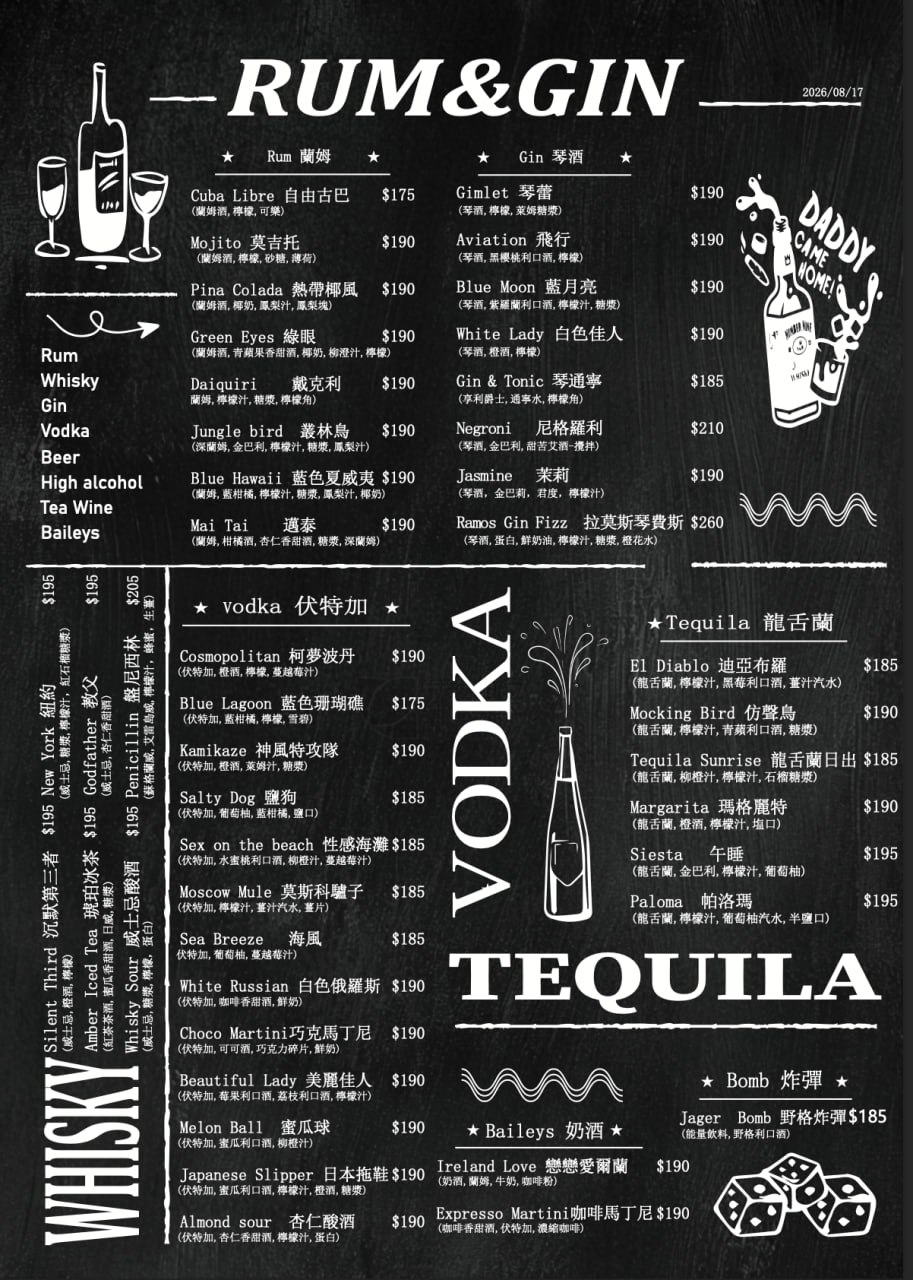
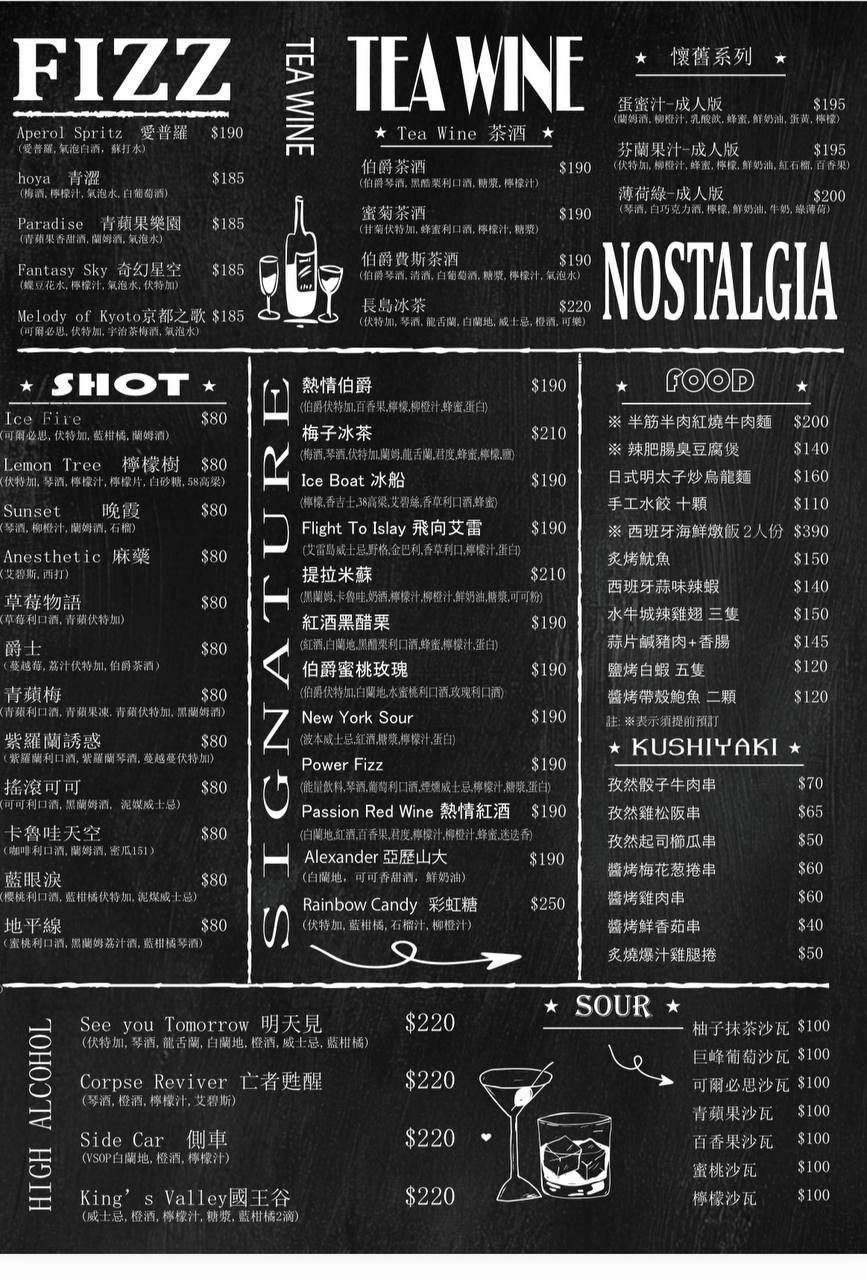
fix: 修正三天星期、Day2移除退房、Day3加退房、bar-menu-2更換

diff --git a/index.html b/index.html
@@ -415,7 +415,7 @@
       <div class="day-header-left">
         <span class="day-badge">DAY 1</span>
         <div>
-          <div class="day-name">2/4（三）</div>
+          <div class="day-name">2/4（四）</div>
           <div class="day-title">小年夜 · 抵達民宿</div>
         </div>
       </div>
@@ -479,7 +479,7 @@
       <div class="day-header-left">
         <span class="day-badge">DAY 2</span>
         <div>
-          <div class="day-name">2/5（四）</div>
+          <div class="day-name">2/5（五）</div>
           <div class="day-title">除夕 · 自由活動 + 年夜飯</div>
         </div>
       </div>
@@ -493,14 +493,6 @@
           <div class="event-card">
             <div class="event-name">☀ 自由活動</div>
             <div class="event-note">可安排周邊景點（日月潭、向山、妖怪村等）</div>
-          </div>
-        </div>
-        <div class="timeline-item">
-          <div class="time-tag">11:30</div>
-          <div class="time-dot"></div>
-          <div class="event-card">
-            <div class="event-name">🏠 退房</div>
-            <div class="event-note">請於 11:30 以前完成</div>
           </div>
         </div>
         <div class="timeline-item">
@@ -529,7 +521,7 @@
       <div class="day-header-left">
         <span class="day-badge">DAY 3</span>
         <div>
-          <div class="day-name">2/6（五）</div>
+          <div class="day-name">2/6（六）</div>
           <div class="day-title">大年初一 · 返家</div>
         </div>
       </div>
@@ -537,6 +529,14 @@
     </div>
     <div class="day-body">
       <div class="day-content">
+        <div class="timeline-item">
+          <div class="time-tag">11:30</div>
+          <div class="time-dot"></div>
+          <div class="event-card">
+            <div class="event-name">🏠 退房</div>
+            <div class="event-note">請於 11:30 以前完成</div>
+          </div>
+        </div>
         <div class="timeline-item">
           <div class="time-tag">彈性</div>
           <div class="time-dot"></div>
